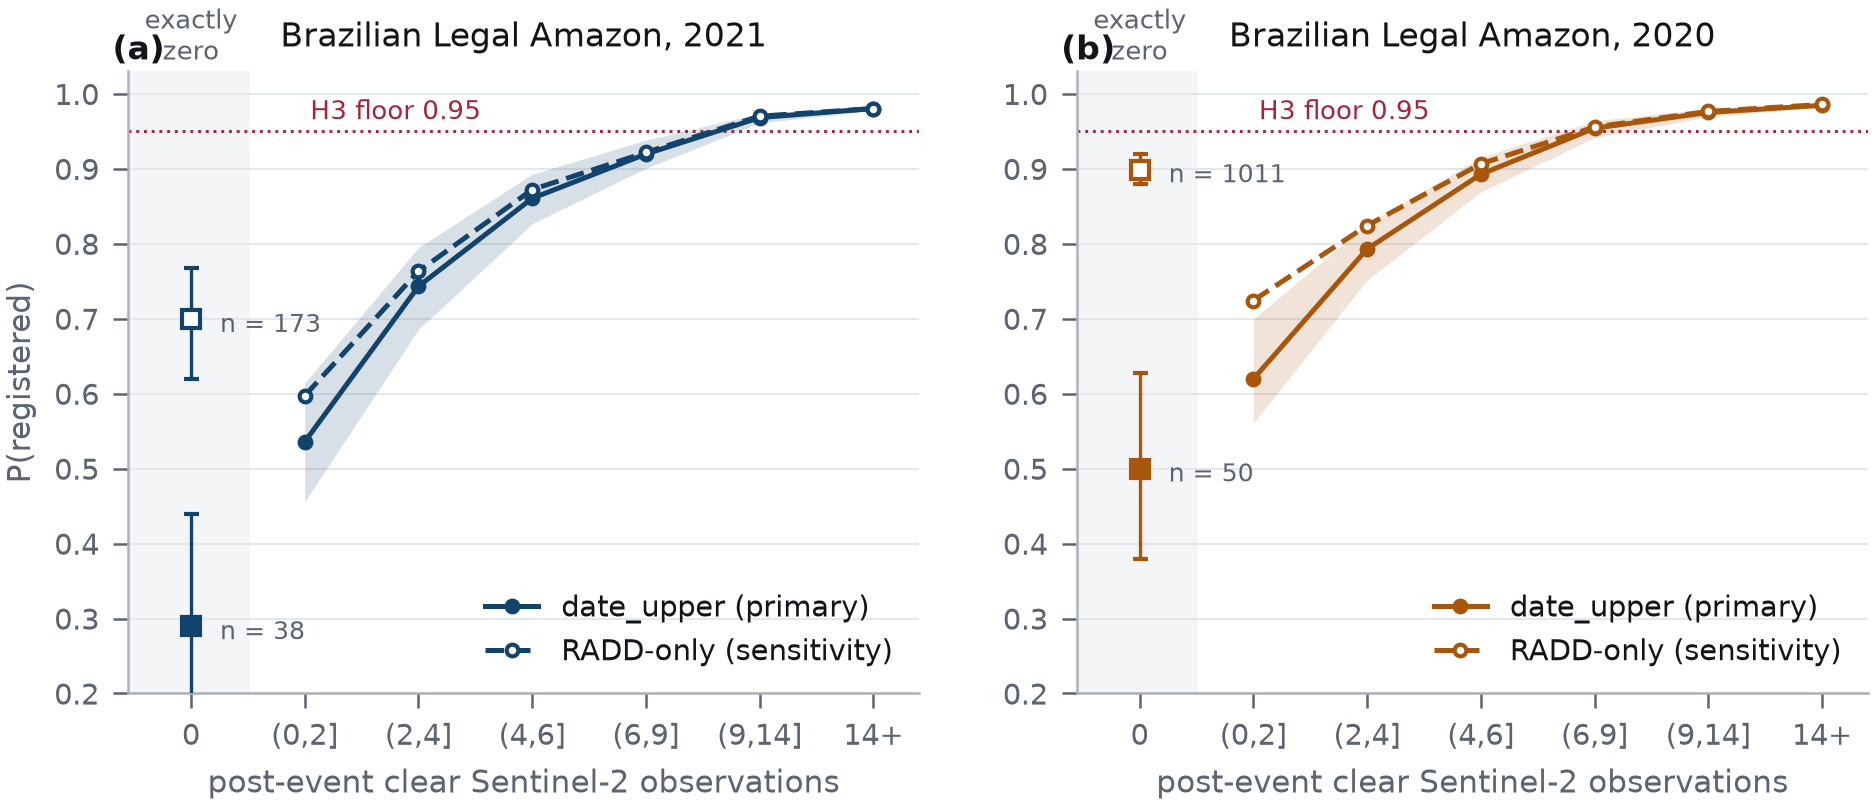
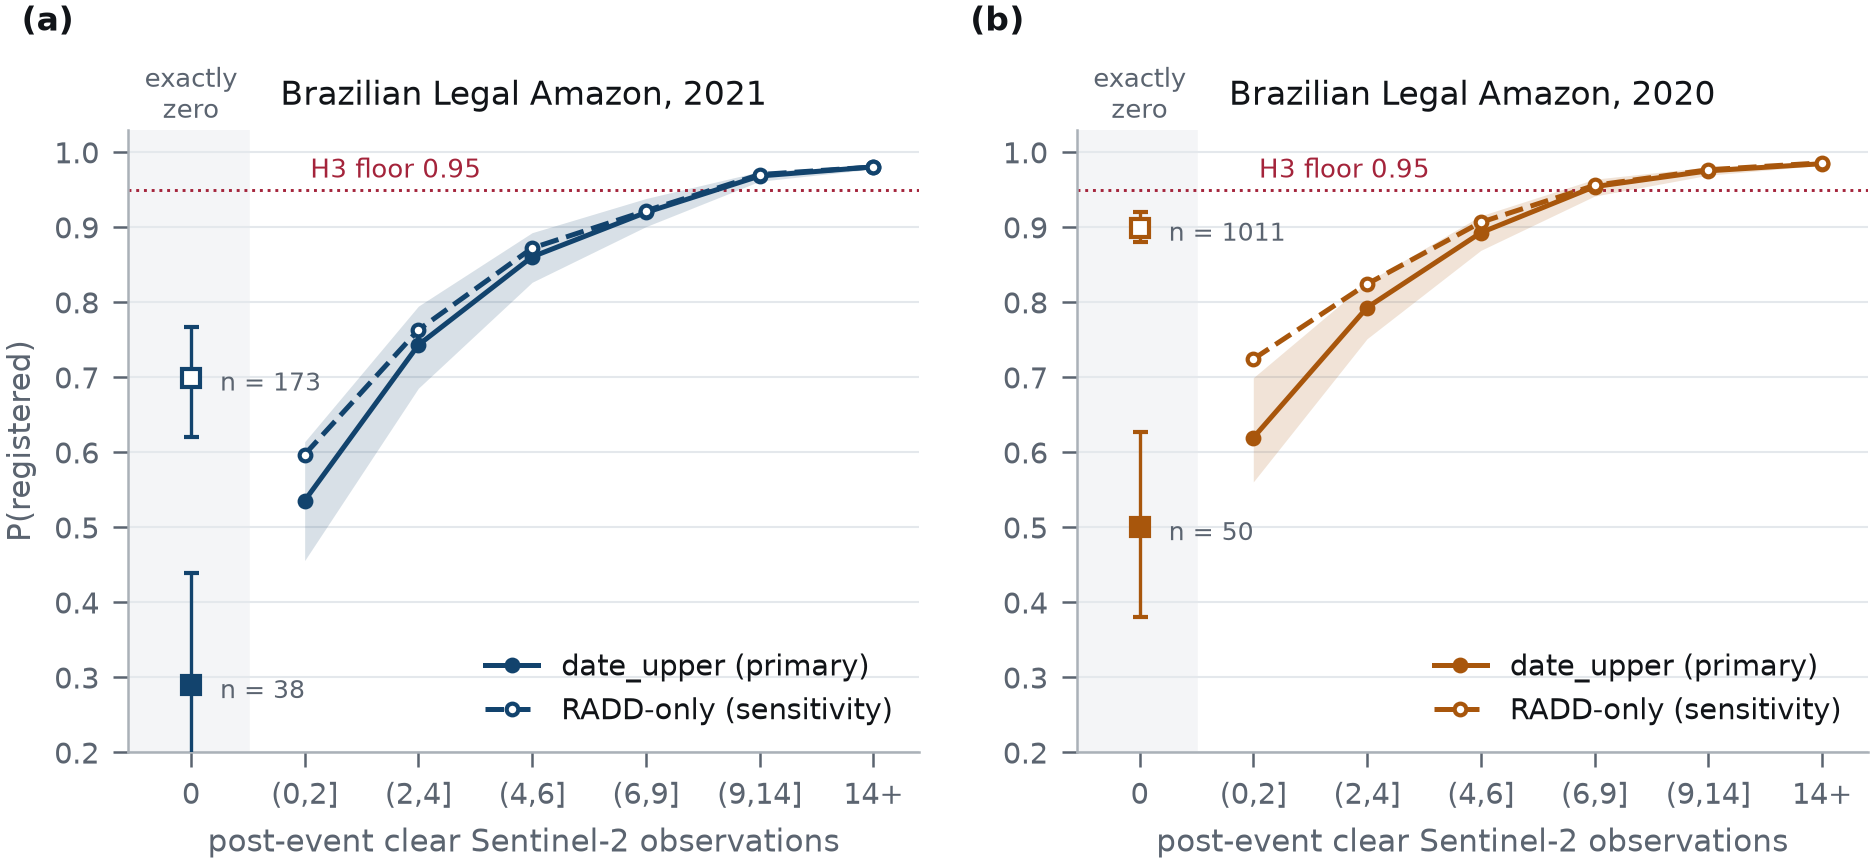
TB01-P8 item 1: F2 panel letters clear of the 'exactly zero' label
The (a)/(b) letters sat on top of the annotation marking the shaded zero stratum. They now
sit in the left margin above the axes, with the top margin opened to make room. No data
changed.

diff --git a/aef_explore/paper/code/fig_results.py b/aef_explore/paper/code/fig_results.py
@@ -34,8 +34,8 @@ def _bin_ci(d, cp, reg, nboot=400):
 
 # ------------------------------------------------------------------ F1
 def f1():
-    fig, axes = plt.subplots(1, 2, figsize=(W2, W2 * 0.36))
-    fig.subplots_adjust(wspace=0.20)
+    fig, axes = plt.subplots(1, 2, figsize=(W2, W2 * 0.37))
+    fig.subplots_adjust(wspace=0.20, top=0.86)
     x = np.arange(len(LBL))
     for ax, (year, path, extra) in zip(axes, (("2021", P2, None),
                                               ("2020", P2B, pd.read_csv(S1_2020)))):
@@ -71,7 +71,10 @@ def f1():
     for ax in axes:
         ax.annotate("exactly\nzero", (0.0, 1.005), xycoords=("data", "axes fraction"),
                     ha="center", va="bottom", fontsize=6.2, color=INK2)
-    panel_tag(axes[0], "(a)"); panel_tag(axes[1], "(b)")
+    # the panel letters sit in the left margin, clear of the "exactly zero" label that
+    # annotates the shaded stratum at x = 0
+    panel_tag(axes[0], "(a)", dx=-0.135, dy=1.20)
+    panel_tag(axes[1], "(b)", dx=-0.135, dy=1.20)
     save(fig, "F2_registration_curve.png")
 
 
